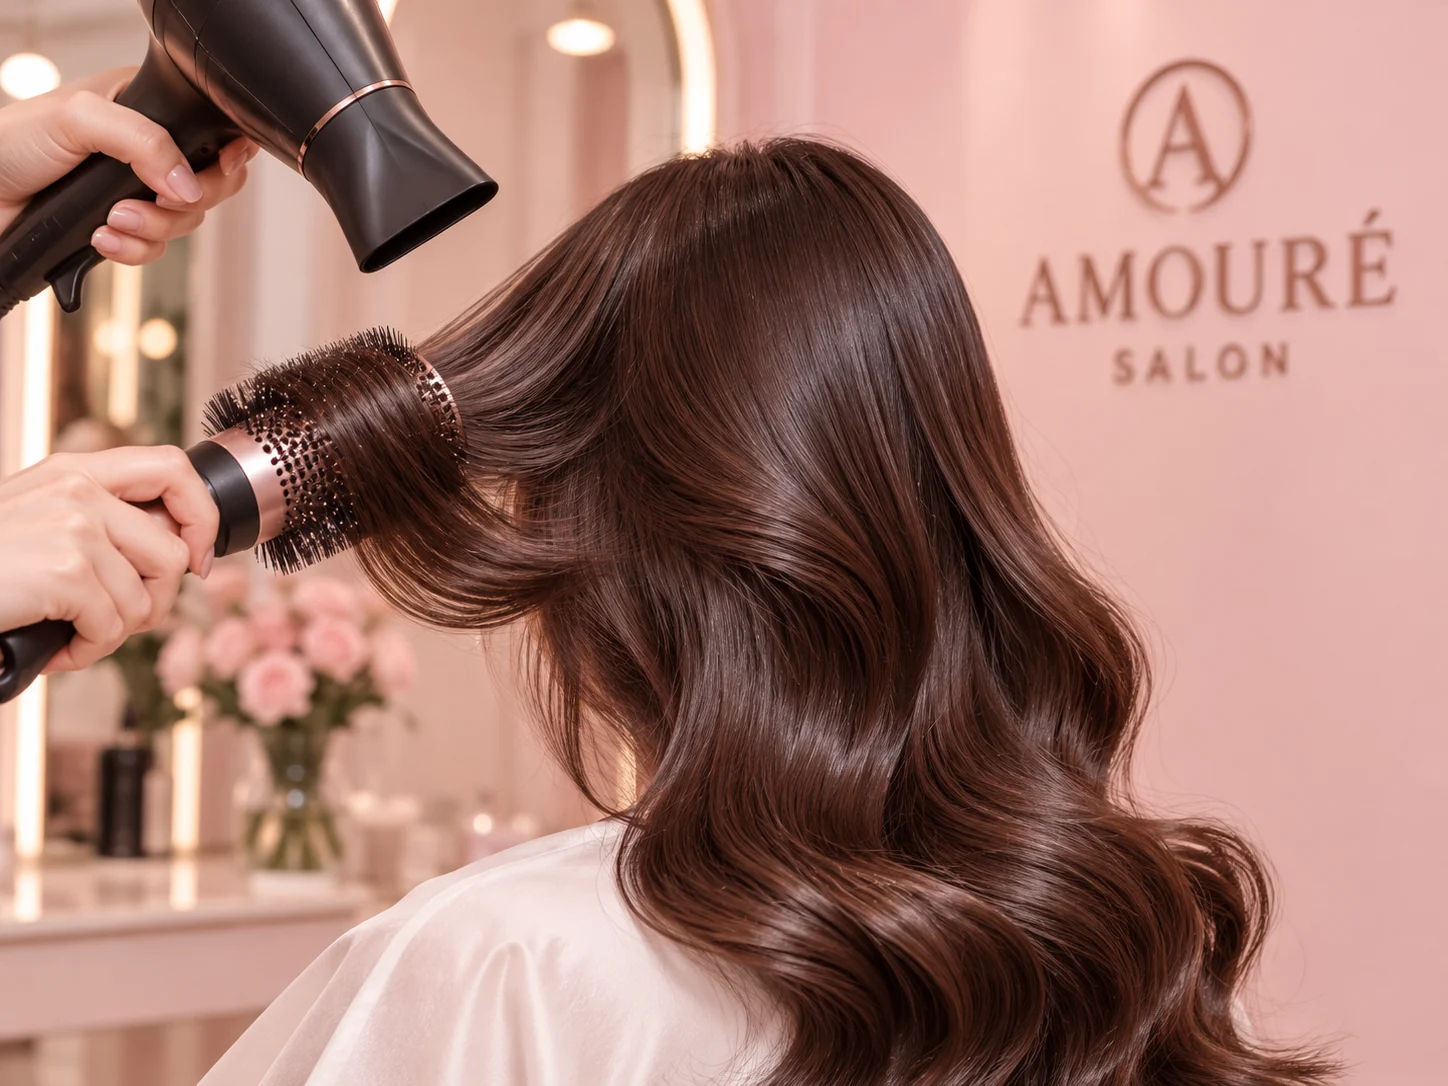
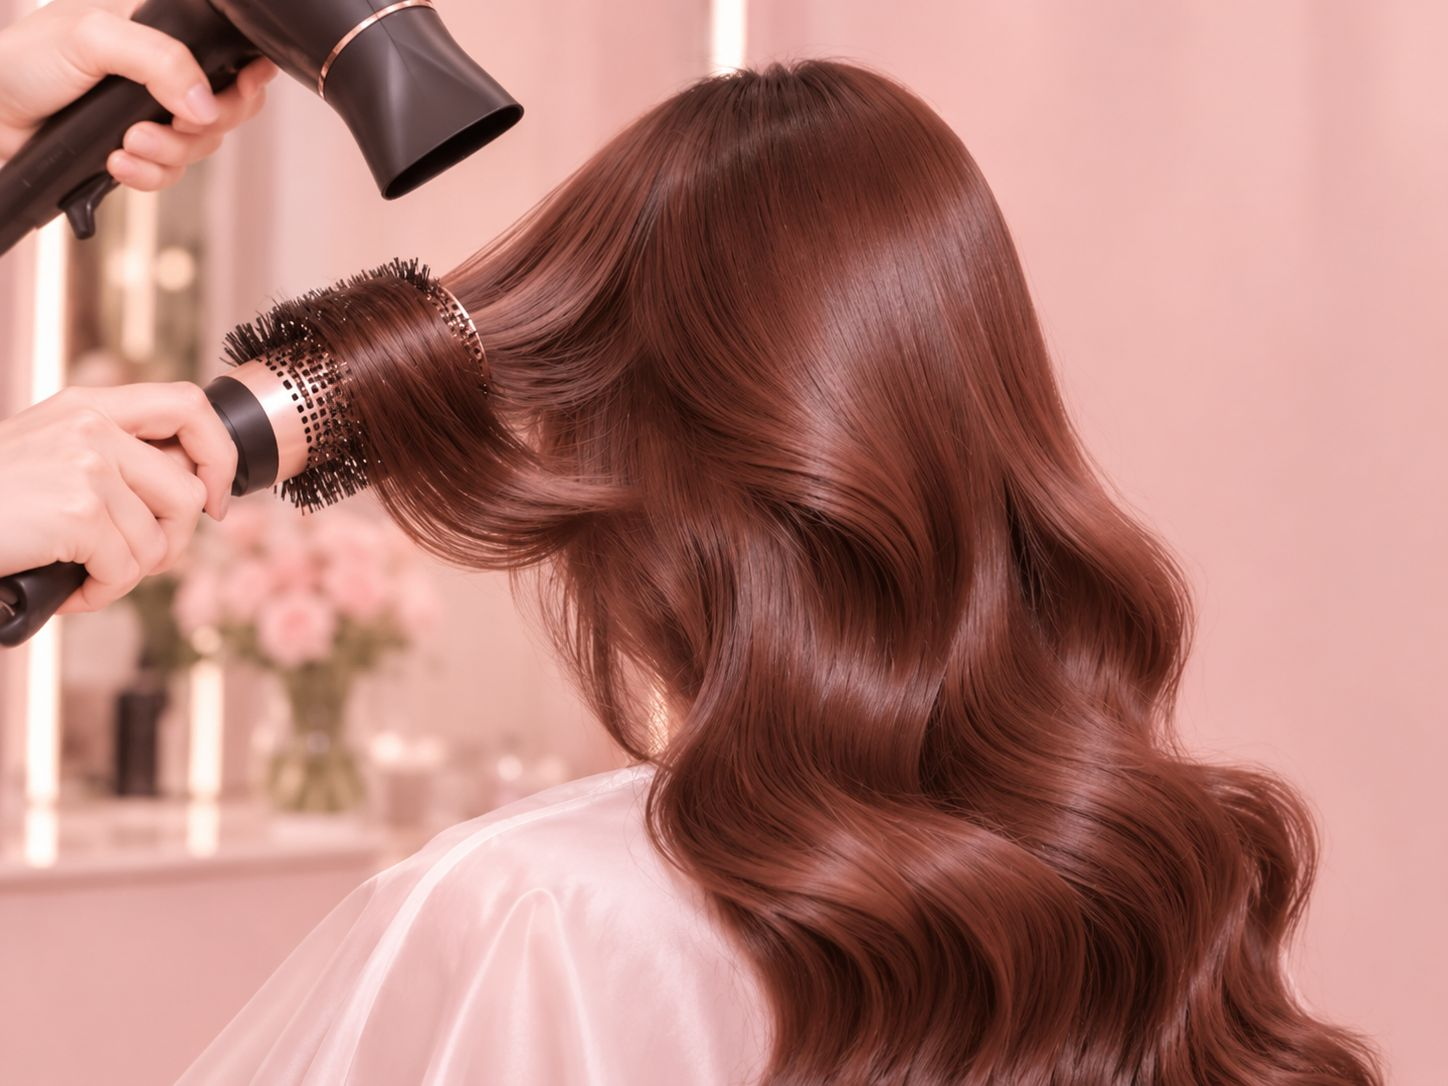
Updated The booking Rules & slots

diff --git a/frontend/assets/css/app.css b/frontend/assets/css/app.css
@@ -854,3 +854,18 @@ html[data-theme="dark"] .layout-app .pill-rose { background: #A85C5E; }
 td > .ref:only-child { font-size: 12.5px; }
 .t-time + .cell-sub + .ref { margin-top: 2px; }
 .ref-lg { vertical-align: middle; margin-left: 8px; padding: 3px 10px; border-radius: 999px; background: var(--app-rose-soft); font-size: 13px; }
+
+/* Time slots: booked = red, can't be clicked; no room = gray striped */
+.slot { flex-direction: column; gap: 1px; }
+.slot small { font-size: 10.5px; font-weight: 600; letter-spacing: .02em; }
+.slot-booked, .slot-noroom { cursor: not-allowed; user-select: none; }
+.slot-booked { background: #FBE6E6; border-color: #EBB9B5 !important; color: #B33A3A; }
+.slot-noroom { background: repeating-linear-gradient(135deg, #F7F1F0 0 6px, #FFFFFF 6px 12px); border-color: #E8DCD9 !important; color: #A1918E; }
+.slot-booked:hover, .slot-noroom:hover { background-color: inherit; }
+.slot-legend { display: flex; flex-wrap: wrap; gap: 16px; margin: 10px 0 4px; font-size: 12.5px; color: var(--app-muted, #76625E); }
+.slot-legend span { display: inline-flex; align-items: center; gap: 6px; }
+.slot-legend i { width: 14px; height: 14px; border-radius: 4px; border: 1px solid var(--gold, #C9A66B); }
+.slot-legend .sl-booked { background: #FBE6E6; border-color: #EBB9B5; }
+.slot-legend .sl-noroom { background: repeating-linear-gradient(135deg, #F7F1F0 0 3px, #FFFFFF 3px 6px); border-color: #E8DCD9; }
+html[data-theme="dark"] .slot-booked, html[data-theme="dark"] .slot-legend .sl-booked { background: #3B1F1F; border-color: #5C2D2D !important; color: #F2A9A3; }
+html[data-theme="dark"] .slot-noroom, html[data-theme="dark"] .slot-legend .sl-noroom { background: repeating-linear-gradient(135deg, #2A2023 0 6px, #211A1C 6px 12px); border-color: #3A2E31 !important; color: #8C7A77; }

diff --git a/backend/services/BookingRules.php b/backend/services/BookingRules.php
@@ -110,7 +110,26 @@ final class BookingRules
      * Free start times for a stylist on a date, e.g. ['09:00', '09:30', ...].
      * Skips times in the past, times that would run past closing, and times that overlap a booking.
      */
+    /** Free start times only (used where only bookable times matter). */
     public static function availableSlots(int $stylistId, string $date, int $duration, int $exceptId = 0): array
+    {
+        $open = [];
+        foreach (self::slotGrid($stylistId, $date, $duration, $exceptId) as $slot) {
+            if ($slot['state'] === 'open') {
+                $open[] = $slot['time'];
+            }
+        }
+        return $open;
+    }
+
+    /**
+     * Every start time of the day for this stylist, so people can see why a time can't be picked.
+     * state: open    = can be booked
+     *        booked  = someone already has the stylist at this time
+     *        no_room = free, but the service would run into the next booking
+     * Times already past (today) are left out. Returns [['time' => 'H:i', 'state' => ...], ...]
+     */
+    public static function slotGrid(int $stylistId, string $date, int $duration, int $exceptId = 0): array
     {
         if (!self::isValidDate($date) || $date < date('Y-m-d')) {
             return [];
@@ -127,24 +146,29 @@ final class BookingRules
             $stmt->fetchAll()
         );
 
-        $open     = strtotime("$date " . setting('opening_time'));
-        $close    = strtotime("$date " . setting('closing_time'));
-        $step     = max(5, (int) setting('slot_interval_minutes')) * 60;
-        $length   = $duration * 60;
-        $now      = time();
+        $open   = strtotime("$date " . setting('opening_time'));
+        $close  = strtotime("$date " . setting('closing_time'));
+        $step   = max(5, (int) setting('slot_interval_minutes')) * 60;
+        $length = $duration * 60;
+        $now    = time();
 
         $slots = [];
         for ($start = $open; $start + $length <= $close; $start += $step) {
-            $end = $start + $length;
             if ($start <= $now) {
                 continue;
             }
+            $end   = $start + $length;
+            $state = 'open';
             foreach ($booked as [$bStart, $bEnd]) {
+                if ($start >= $bStart && $start < $bEnd) {
+                    $state = 'booked';      // the start time itself is taken
+                    break;
+                }
                 if ($start < $bEnd && $end > $bStart) {
-                    continue 2;
+                    $state = 'no_room';     // starts free but overlaps a later booking
                 }
             }
-            $slots[] = date('H:i', $start);
+            $slots[] = ['time' => date('H:i', $start), 'state' => $state];
         }
         return $slots;
     }

diff --git a/frontend/views/staff/_slot-picker.php b/frontend/views/staff/_slot-picker.php
@@ -9,18 +9,34 @@
     <div class="alert alert-error" role="alert"><?= e($pick['problem']) ?></div>
 <?php elseif ($pick['service'] && $pick['stylist']): ?>
     <fieldset class="checks">
-        <legend>Available times on <?= e(fmt_date($pick['date'])) ?> with <?= e($pick['stylist']['full_name']) ?></legend>
+        <legend>Times on <?= e(fmt_date($pick['date'])) ?> with <?= e($pick['stylist']['full_name']) ?></legend>
         <?php if ($pick['full']): ?>
             <p class="muted">The salon is fully booked on this date (daily limit reached). Choose another date.</p>
-        <?php elseif (!$pick['slots']): ?>
-            <p class="muted">No free times on this date. Choose another date or stylist.</p>
+        <?php elseif (!$pick['grid']): ?>
+            <p class="muted">No times left on this date. Choose another date.</p>
         <?php else: ?>
+            <?php if (!$pick['slots']): ?>
+                <p class="muted"><?= e($pick['stylist']['full_name']) ?> is fully booked on this date. Choose another date or stylist.</p>
+            <?php endif; ?>
+            <div class="slot-legend">
+                <span><i class="sl-open"></i> Available</span>
+                <span><i class="sl-booked"></i> Booked</span>
+                <span><i class="sl-noroom"></i> Not enough time before the next booking</span>
+            </div>
             <div class="slot-grid">
-                <?php foreach ($pick['slots'] as $slot): ?>
-                    <label class="slot slot-radio">
-                        <input type="radio" name="time" value="<?= e($slot) ?>" required <?= ($selectedTime ?? '') === $slot ? 'checked' : '' ?>>
-                        <span><?= e(fmt_time($slot)) ?></span>
-                    </label>
+                <?php foreach ($pick['grid'] as $s): ?>
+                    <?php if ($s['state'] === 'open'): ?>
+                        <label class="slot slot-radio">
+                            <input type="radio" name="time" value="<?= e($s['time']) ?>" required <?= ($selectedTime ?? '') === $s['time'] ? 'checked' : '' ?>>
+                            <span><?= e(fmt_time($s['time'])) ?></span>
+                        </label>
+                    <?php else: ?>
+                        <span class="slot slot-<?= $s['state'] === 'booked' ? 'booked' : 'noroom' ?>" aria-disabled="true"
+                              title="<?= $s['state'] === 'booked' ? 'Already booked' : 'Not enough time before the next booking' ?>">
+                            <?= e(fmt_time($s['time'])) ?>
+                            <small><?= $s['state'] === 'booked' ? 'Booked' : 'No room' ?></small>
+                        </span>
+                    <?php endif; ?>
                 <?php endforeach; ?>
             </div>
         <?php endif; ?>

diff --git a/frontend/views/customer/book.php b/frontend/views/customer/book.php
@@ -9,6 +9,7 @@
 /** @var array $days */
 /** @var string $date */
 /** @var array $slots */
+/** @var array $grid */
 /** @var string $time */
 /** @var string $endTime */
 $steps = [1 => 'Service', 2 => 'Stylist', 3 => 'Date & time', 4 => 'Confirm'];
@@ -114,16 +115,32 @@ $steps = [1 => 'Service', 2 => 'Stylist', 3 => 'Date & time', 4 => 'Confirm'];
         </div>
 
         <h2 class="section-title slots-title">
-            Available times<?= $date !== '' ? ' on ' . e(fmt_date($date)) : '' ?>
+            Times<?= $date !== '' ? ' on ' . e(fmt_date($date)) : '' ?>
         </h2>
-        <?php if (!$slots): ?>
-            <p class="muted">No free times on this day. Please pick another date.</p>
+        <?php if (!$grid): ?>
+            <p class="muted">No times left on this day. Please pick another date.</p>
         <?php else: ?>
+            <?php if (!$slots): ?>
+                <p class="muted"><?= e($stylist['full_name']) ?> is fully booked on this day. Pick another date or stylist.</p>
+            <?php endif; ?>
+            <div class="slot-legend">
+                <span><i class="sl-open"></i> Available</span>
+                <span><i class="sl-booked"></i> Booked</span>
+                <span><i class="sl-noroom"></i> Not enough time before the next booking</span>
+            </div>
             <div class="slot-grid">
-                <?php foreach ($slots as $slot): ?>
-                    <a class="slot" href="<?= e(url('customer/book', ['service' => $service['id'], 'stylist' => $stylist['id'], 'date' => $date, 'time' => $slot])) ?>">
-                        <?= e(fmt_time($slot)) ?>
-                    </a>
+                <?php foreach ($grid as $s): ?>
+                    <?php if ($s['state'] === 'open'): ?>
+                        <a class="slot" href="<?= e(url('customer/book', ['service' => $service['id'], 'stylist' => $stylist['id'], 'date' => $date, 'time' => $s['time']])) ?>">
+                            <?= e(fmt_time($s['time'])) ?>
+                        </a>
+                    <?php else: ?>
+                        <span class="slot slot-<?= $s['state'] === 'booked' ? 'booked' : 'noroom' ?>" aria-disabled="true"
+                              title="<?= $s['state'] === 'booked' ? 'Already booked' : 'Not enough time before the next booking' ?>">
+                            <?= e(fmt_time($s['time'])) ?>
+                            <small><?= $s['state'] === 'booked' ? 'Booked' : 'No room' ?></small>
+                        </span>
+                    <?php endif; ?>
                 <?php endforeach; ?>
             </div>
         <?php endif; ?>

diff --git a/backend/controllers/AppointmentController.php b/backend/controllers/AppointmentController.php
@@ -105,9 +105,10 @@ class AppointmentController
         if (!isset($days[$date])) {
             $date = array_key_first(array_filter($days, static fn ($d) => !$d['full'])) ?? '';
         }
-        $slots = ($date !== '' && !$days[$date]['full'])
-            ? BookingRules::availableSlots($stylistId, $date, (int) $service['duration_minutes'])
+        $grid = ($date !== '' && !$days[$date]['full'])
+            ? BookingRules::slotGrid($stylistId, $date, (int) $service['duration_minutes'])
             : [];
+        $slots = array_column(array_filter($grid, static fn ($s) => $s['state'] === 'open'), 'time');
 
         if ($time === '' || !in_array($time, $slots, true)) {
             view('customer/book', [
@@ -118,6 +119,7 @@ class AppointmentController
                 'days'    => $days,
                 'date'    => $date,
                 'slots'   => $slots,
+                'grid'    => $grid,
             ]);
             return;
         }

diff --git a/backend/controllers/StaffAppointmentController.php b/backend/controllers/StaffAppointmentController.php
@@ -398,6 +398,7 @@ class StaffAppointmentController
             'service'    => null,
             'stylist'    => null,
             'slots'      => [],
+            'grid'       => [],
             'full'       => false,
             'problem'    => '',
         ];
@@ -423,7 +424,8 @@ class StaffAppointmentController
             $pick['full'] = true;
             return $pick;
         }
-        $pick['slots'] = BookingRules::availableSlots($stylistId, $pick['date'], (int) $pick['service']['duration_minutes'], $exceptId);
+        $pick['grid']  = BookingRules::slotGrid($stylistId, $pick['date'], (int) $pick['service']['duration_minutes'], $exceptId);
+        $pick['slots'] = array_column(array_filter($pick['grid'], static fn ($s) => $s['state'] === 'open'), 'time');
         return $pick;
     }
 
